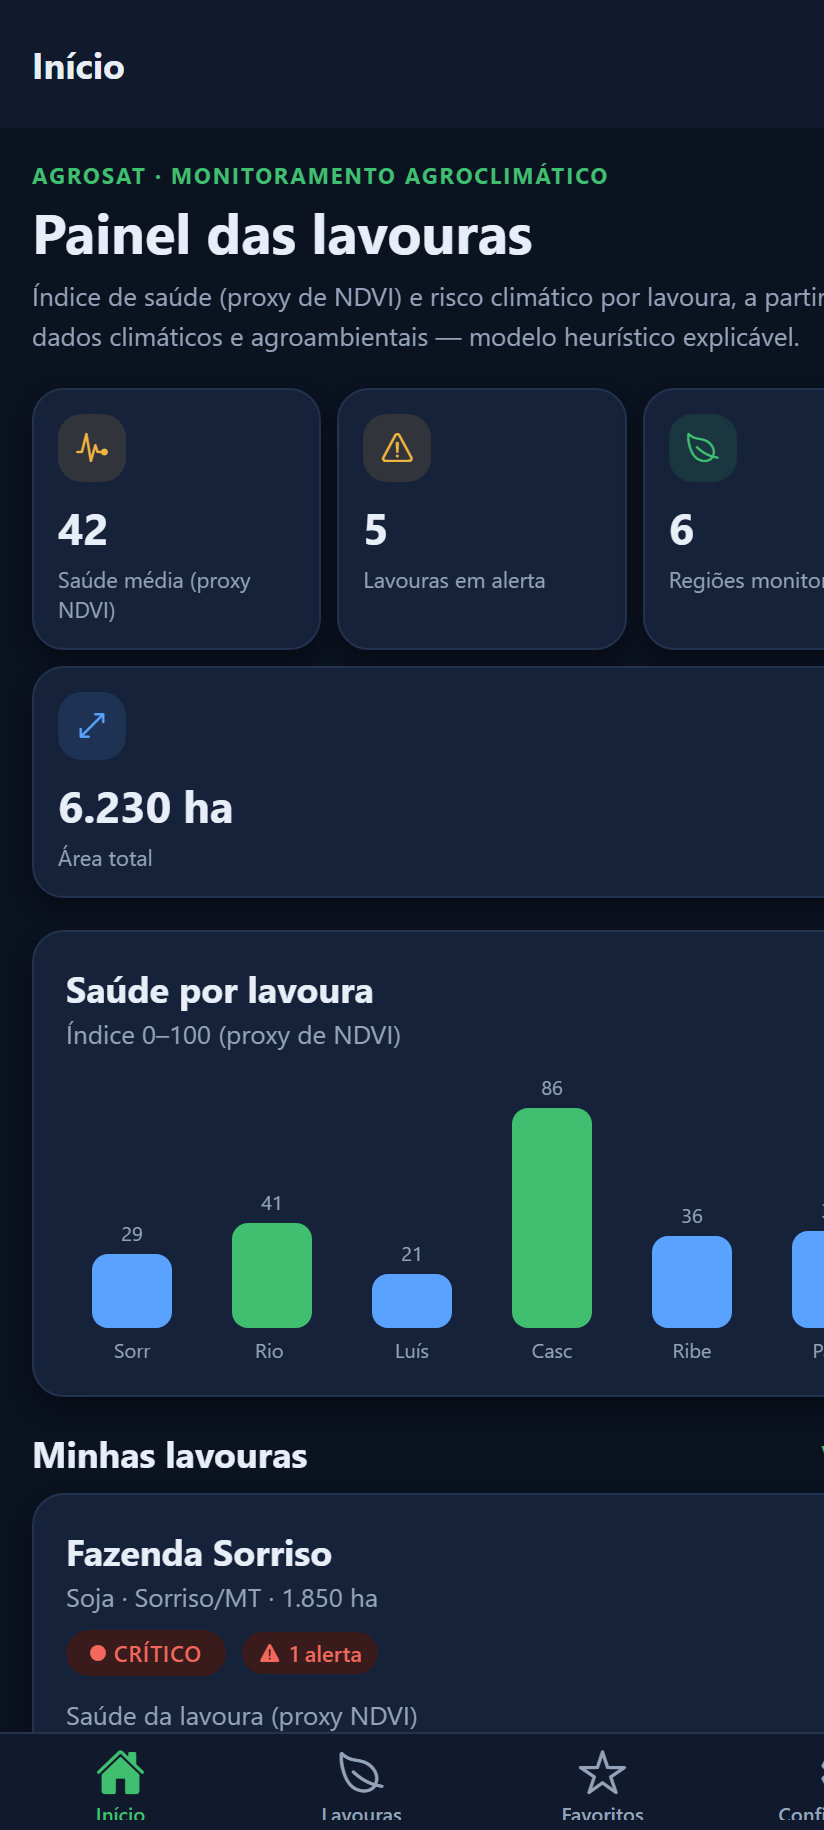
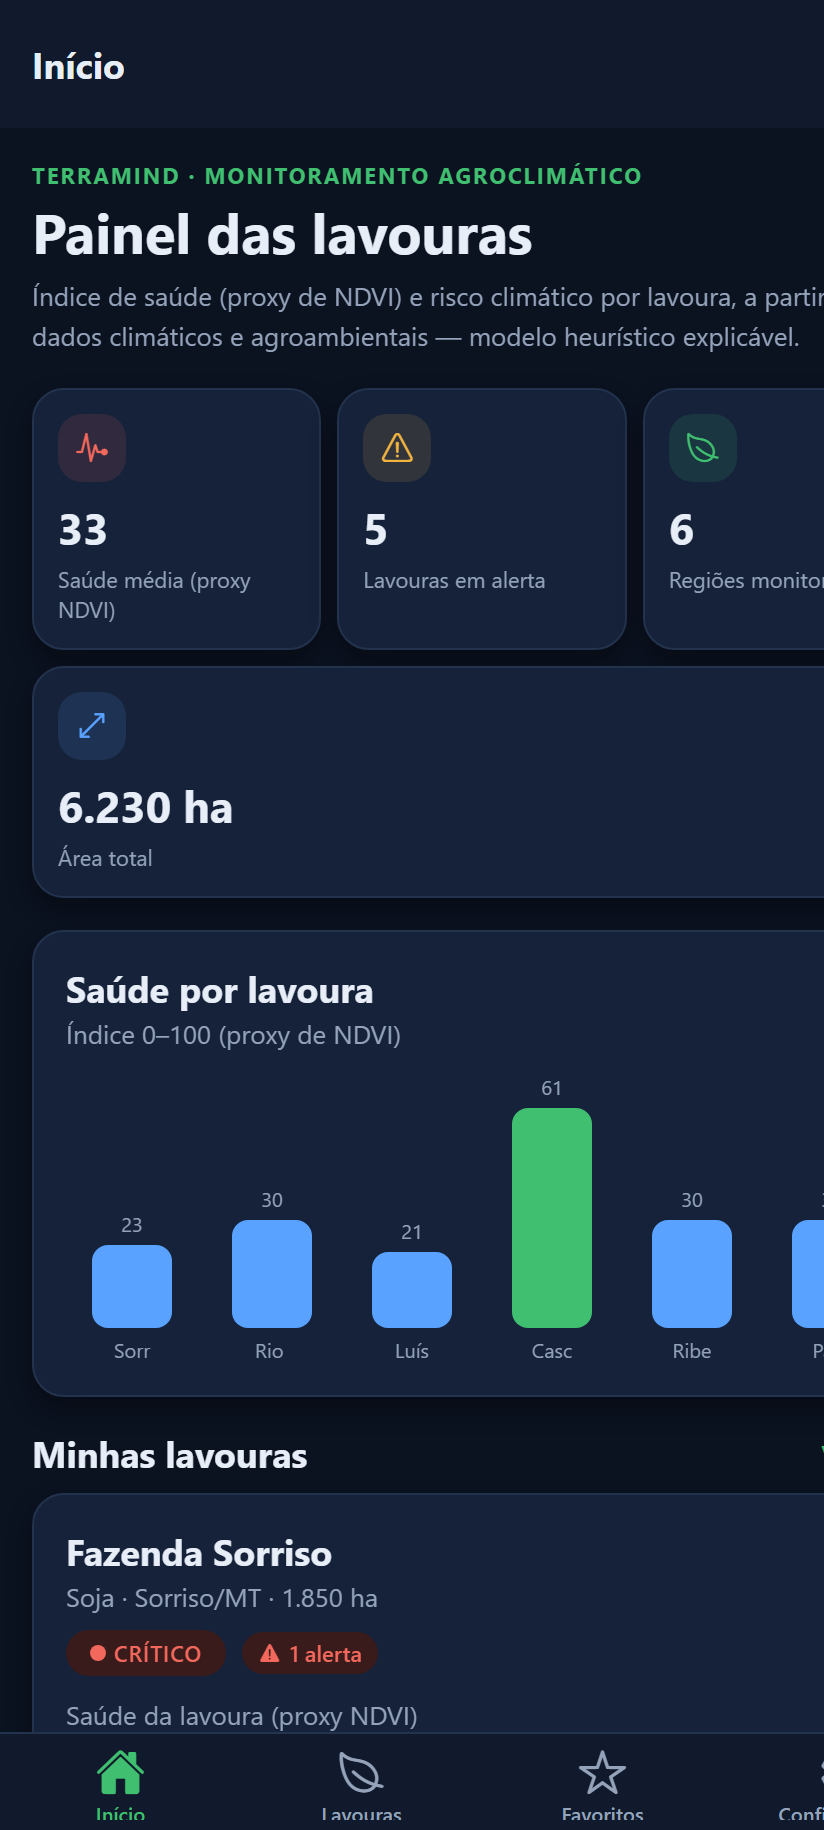
Renomeia projeto para TerraMind; remove expo-notifications; atualiza prints

diff --git a/src/screens/RegionDetailScreen.tsx b/src/screens/RegionDetailScreen.tsx
@@ -1,5 +1,5 @@
 import { Ionicons } from '@expo/vector-icons';
-import React, { ComponentProps, useEffect, useLayoutEffect } from 'react';
+import React, { ComponentProps, useLayoutEffect } from 'react';
 import { StyleSheet, Text, TouchableOpacity, View } from 'react-native';
 import {
   AlertCard,
@@ -19,7 +19,6 @@ import {
 import { useTheme } from '../contexts/ThemeContext';
 import { useFavorites, useRegionMonitor, useRegions } from '../hooks';
 import { RootStackScreenProps } from '../navigation/types';
-import { notifyCriticalRegion } from '../services/notificationService';
 import { estimateYield } from '../services/yieldEstimateService';
 import { fontSize, fontWeight, spacing } from '../theme';
 import { formatNumber, relativeFromNow, weekdayShort } from '../utils/format';
@@ -51,12 +50,6 @@ export function RegionDetailScreen({ route, navigation }: RootStackScreenProps<'
         : undefined,
     });
   }, [navigation, region, favorite, toggleFavorite, theme]);
-
-  useEffect(() => {
-    if (region && data?.health.status === 'critical') {
-      void notifyCriticalRegion(region.id, region.name);
-    }
-  }, [region, data]);
 
   if (!region) {
     return (

diff --git a/src/screens/SettingsScreen.tsx b/src/screens/SettingsScreen.tsx
@@ -69,9 +69,9 @@ export function SettingsScreen() {
       </Card>
 
       <Card style={styles.card}>
-        <SectionHeader title="Sobre o AgroSat" />
+        <SectionHeader title="Sobre o TerraMind" />
         <Text style={[styles.paragraph, { color: theme.colors.textMuted }]}>
-          O AgroSat é um MVP mobile de apoio à decisão agrícola: usa dados climáticos e agroambientais para calcular um
+          O TerraMind é um MVP mobile de apoio à decisão agrícola: usa dados climáticos e agroambientais para calcular um
           índice de saúde da lavoura por um modelo heurístico explicável (proxy de NDVI, sem processar imagens de
           satélite nesta versão) e antecipar riscos como estresse hídrico, geada e calor. Alinhado aos ODS 2, 13 e 9.
         </Text>
@@ -120,7 +120,7 @@ export function SettingsScreen() {
         ))}
       </Card>
 
-      <Text style={[styles.version, { color: theme.colors.textMuted }]}>AgroSat · v1.0.0 · Expo SDK 55</Text>
+      <Text style={[styles.version, { color: theme.colors.textMuted }]}>TerraMind · v1.0.0 · Expo SDK 55</Text>
     </ScreenContainer>
   );
 }

diff --git a/src/screens/HomeScreen.tsx b/src/screens/HomeScreen.tsx
@@ -66,7 +66,7 @@ export function HomeScreen({ navigation }: TabScreenProps<'Home'>) {
   return (
     <ScreenContainer scroll refreshing={loading} onRefresh={refetch}>
       <View>
-        <Text style={[styles.kicker, { color: theme.colors.primary }]}>AGROSAT · MONITORAMENTO AGROCLIMÁTICO</Text>
+        <Text style={[styles.kicker, { color: theme.colors.primary }]}>TERRAMIND · MONITORAMENTO AGROCLIMÁTICO</Text>
         <Text style={[styles.title, { color: theme.colors.text }]}>Painel das lavouras</Text>
         <Text style={[styles.subtitle, { color: theme.colors.textMuted }]}>
           Índice de saúde (proxy de NDVI) e risco climático por lavoura, a partir de dados climáticos e agroambientais — modelo heurístico explicável.

diff --git a/src/storage/index.ts b/src/storage/index.ts
@@ -1,10 +1,10 @@
 import AsyncStorage from '@react-native-async-storage/async-storage';
 
 export const StorageKeys = {
-  themeMode: '@agrosat/theme-mode',
-  favorites: '@agrosat/favorites',
-  customRegions: '@agrosat/custom-regions',
-  settings: '@agrosat/settings',
+  themeMode: '@terramind/theme-mode',
+  favorites: '@terramind/favorites',
+  customRegions: '@terramind/custom-regions',
+  settings: '@terramind/settings',
 } as const;
 
 export async function getItem<T>(key: string, fallback: T): Promise<T> {

diff --git a/docs/pitch.md b/docs/pitch.md
@@ -1,4 +1,4 @@
-# 🎤 Pitch — AgroSat
+# 🎤 Pitch — TerraMind
 
 > Roteiro de 3 a 5 minutos + perguntas difíceis com respostas honestas.
 > **Regra de ouro:** não prometer IA real, NDVI real ou processamento de satélite. Vender o que existe (apoio à decisão agroclimática explicável) e tratar o resto como roadmap.
@@ -11,28 +11,28 @@
 > "No campo, estresse hídrico, geada e seca normalmente só são percebidos quando o dano já aconteceu. Falta uma ferramenta simples que transforme dado ambiental em decisão preventiva."
 
 **[0:30–1:00] Solução**
-> "O AgroSat é um app mobile que pega **dados climáticos e agroambientais abertos** e os transforma em um **índice de saúde da lavoura (0–100)**, em **alertas** e em uma **estimativa de safra**. É uma ferramenta de **apoio à decisão**, não só um leitor de dados."
+> "O TerraMind é um app mobile que pega **dados climáticos e agroambientais abertos** e os transforma em um **índice de saúde da lavoura (0–100)**, em **alertas** e em uma **estimativa de safra**. É uma ferramenta de **apoio à decisão**, não só um leitor de dados."
 
 **[1:00–1:30] Relação com a indústria espacial**
 > "Usamos dados de **modelos meteorológicos que assimilam observação de satélite** (via Open-Meteo) e o conceito de **sensoriamento remoto / NDVI** como inspiração. Somos honestos: nesta versão é um **proxy agroclimático**, e a evolução é integrar NDVI real do Sentinel-2."
 
 **[1:30–2:00] Tecnologias**
-> "React Native + Expo SDK 55 + TypeScript; React Navigation; Context API + hooks; AsyncStorage; Axios com camada de serviços (batch + retry); expo-location e expo-notifications. APIs abertas Open-Meteo e NASA. Arquitetura em camadas."
+> "React Native + Expo SDK 55 + TypeScript; React Navigation; Context API + hooks; AsyncStorage; Axios com camada de serviços (batch + retry); expo-location (GPS); deep-linking de rotas. APIs abertas Open-Meteo e NASA. Arquitetura em camadas."
 
 **[2:00–3:00] Demonstração ao vivo**
-> Dashboard (indicadores + gráfico de saúde) → Lavouras (busca/filtro/ordenação) → Adicionar lavoura com **"Usar minha localização" (GPS)** → Detalhe (índice de saúde + **estimativa de safra** + clima + previsão + alertas) → **notificação local** numa lavoura crítica → Dark mode → Favoritos.
+> Dashboard (indicadores + gráfico de saúde) → Lavouras (busca/filtro/ordenação) → Adicionar lavoura com **"Usar minha localização" (GPS)** → Detalhe (índice de saúde + **estimativa de safra** + clima + previsão + **alertas climáticos**) → Dark mode → Favoritos.
 
 **[3:00–3:40] Modelo heurístico de saúde**
 > "O índice é um **modelo heurístico transparente**: umidade do solo + balanço hídrico (chuva − evapotranspiração) + estresse térmico → score 0–100 e um **proxy de NDVI** 0–1. Totalmente **explicável** — mostramos por que está 'crítico'."
 
 **[3:40–4:10] Limitações honestas**
-> "Sendo transparentes: **não é IA** (é regra), **não é NDVI medido** (é proxy climático), **não processamos imagens de satélite** ainda e as notificações são **locais** (sem backend). Optamos por um MVP **funcional e honesto**."
+> "Sendo transparentes: **não é IA** (é regra), **não é NDVI medido** (é proxy climático) e **não processamos imagens de satélite** ainda. Os alertas aparecem dentro do app; push remoto e backend ficam no roadmap. Optamos por um MVP **funcional e honesto**."
 
 **[4:10–4:40] Próximos passos**
 > "Roadmap: NDVI real com Sentinel-2; mapa de calor por talhão; backend com PostGIS; push remoto; estimativa de safra com séries históricas; validação com dados de campo."
 
 **[4:40–5:00] Fechamento**
-> "AgroSat: dado espacial e climático aberto virando **decisão no campo**, alinhado aos ODS 2, 13 e 9. Honesto no que entrega, claro no que evolui."
+> "TerraMind: dado espacial e climático aberto virando **decisão no campo**, alinhado aos ODS 2, 13 e 9. Honesto no que entrega, claro no que evolui."
 
 ---
 
@@ -59,14 +59,14 @@ Hoje é validação por **plausibilidade agronômica** (déficit hídrico e calo
 **7. Por que não tem backend?**
 Escopo de MVP mobile e prazo. Tudo roda no cliente com APIs abertas, o que garante rodar **sem cadastro** na correção. A camada de serviços já está isolada para, no futuro, apontar para um backend (Spring Boot/PostGIS, como sugerido).
 
-**8. Como funcionam as notificações?**
-São **notificações locais** (expo-notifications), disparadas no aparelho quando uma lavoura entra em estado crítico, com anti-spam por sessão. **Não** é push remoto (isso exigiria backend e build standalone) — está no roadmap.
+**8. Como funcionam os alertas?**
+Os **alertas climáticos** (geada, calor, chuva intensa, estresse hídrico) são calculados a partir da previsão e exibidos **dentro do app** — no contador "Lavouras em alerta" do Dashboard e na seção de alertas do Detalhe. **Notificações push** exigiriam backend/dev build e ficam no roadmap.
 
 **9. O app funciona offline?**
 Favoritos e lavouras adicionadas persistem em AsyncStorage e abrem offline. Os dados climáticos são online; cache offline do clima é uma melhoria mapeada.
 
 **10. Roda em Android, iOS e Web?**
-Mesma base Expo. Testamos **Web** e **Android (Expo Go)**. iOS roda pela mesma base; [preencher: testado/não testado em hardware].
+Mesma base Expo. Validamos em **Web** e **Android**. No iPhone testado, o **Expo Go** estava em versão incompatível com o SDK do projeto, então o iOS não foi validado em hardware — roda pela mesma base (ou via development build).
 
 **11. Como isso ajuda o agricultor na prática?**
 Concentra numa tela o que hoje está espalhado: saúde relativa de cada talhão, risco climático dos próximos dias e uma estimativa de perda. Ajuda a **priorizar** onde agir (irrigar, antecipar colheita) antes do dano.

diff --git a/README.md b/README.md
@@ -1,6 +1,6 @@
-# 🛰 AgroSat — Monitoramento Agroclimático de Lavouras
+# 🛰 TerraMind — Monitoramento Agroclimático de Lavouras
 
-**AgroSat** é um **MVP mobile de apoio à decisão agrícola** (React Native + Expo SDK 55 + TypeScript). Ele usa **dados climáticos e agroambientais** para calcular um **índice explicável de saúde da lavoura (0–100)**, antecipar **riscos climáticos** e estimar a **safra**. O índice é **inspirado no conceito de NDVI**, mas nesta versão funciona como um **proxy agroclimático** — **sem processamento real de imagens de satélite**.
+**TerraMind** é um **MVP mobile de apoio à decisão agrícola** (React Native + Expo SDK 55 + TypeScript). Ele usa **dados climáticos e agroambientais** para calcular um **índice explicável de saúde da lavoura (0–100)**, antecipar **riscos climáticos** e estimar a **safra**. O índice é **inspirado no conceito de NDVI**, mas nesta versão funciona como um **proxy agroclimático** — **sem processamento real de imagens de satélite**.
 
 ![Expo SDK](https://img.shields.io/badge/Expo-SDK%2055-000?logo=expo) ![React Native](https://img.shields.io/badge/React%20Native-0.83-61dafb?logo=react) ![TypeScript](https://img.shields.io/badge/TypeScript-5.9-3178c6?logo=typescript)
 
@@ -12,7 +12,7 @@ No campo, **estresse hídrico, geada e seca** muitas vezes só são percebidos q
 
 ## 💡 Solução
 
-O AgroSat reúne em um app: o **índice de saúde** de cada lavoura, o **risco climático** dos próximos dias, **alertas** e uma **estimativa de safra** — ajudando o produtor a **priorizar onde agir** antes do prejuízo.
+O TerraMind reúne em um app: o **índice de saúde** de cada lavoura, o **risco climático** dos próximos dias, **alertas** e uma **estimativa de safra** — ajudando o produtor a **priorizar onde agir** antes do prejuízo.
 
 ## 🛰 Relação com a indústria espacial (honesta)
 
@@ -38,8 +38,7 @@ O AgroSat reúne em um app: o **índice de saúde** de cada lavoura, o **risco c
 | 🏠 **Dashboard** | Indicadores (saúde média, lavouras em alerta, área total), **gráfico de saúde por lavoura** e imagem astronômica da NASA. |
 | 🌿 **Lavouras** | Lista com **busca**, **filtro por status** e **ordenação**. Pull-to-refresh. |
 | ➕ **Adicionar lavoura** | Por **cidade (geocoding)** ou pelo **GPS do dispositivo** ("Usar minha localização"). Salva localmente. |
-| 🔎 **Detalhe da lavoura** | Índice de saúde (proxy de NDVI), **estimativa de safra**, estresse hídrico, clima atual, previsão de 7 dias e **alertas climáticos**. |
-| 🔔 **Notificações locais** | Aviso no aparelho quando uma lavoura entra em **estado crítico**. |
+| 🔎 **Detalhe da lavoura** | Índice de saúde (proxy de NDVI), **estimativa de safra**, estresse hídrico, clima atual, previsão de 7 dias e **alertas climáticos** (no app). |
 | ⭐ **Favoritos** | Lavouras marcadas, **persistidas** no dispositivo. |
 | ⚙ **Configurações** | Tema **claro/escuro/sistema**, fontes de dados e equipe. |
 
@@ -74,7 +73,6 @@ Resultado: score **0–100** + valor estilo **NDVI 0–1**, classificado em **Sa
 - **AsyncStorage** (persistência local)
 - **Axios** (Service Layer com interceptors, batch e tratamento de erro)
 - **expo-location** (geolocalização do dispositivo)
-- **expo-notifications** (notificações locais)
 - **@expo/vector-icons** (Ionicons)
 - APIs: **Open-Meteo** e **NASA APOD**
 
@@ -87,7 +85,7 @@ src/
  ├── components/   # Componentes + ui/ (design system)
  ├── screens/      # Home, Regions, RegionDetail, AddRegion, Favorites, Settings, ApodDetail
  ├── navigation/   # Navegadores + tipos de rota
- ├── services/     # API (Open-Meteo, NASA) + regras (saúde, safra, notificações)
+ ├── services/     # API (Open-Meteo, NASA) + regras (saúde, safra, alertas)
  ├── hooks/        # useMonitors, useRegionMonitor, useApod + hooks de contexto
  ├── contexts/     # Theme, Favorites, Regions
  ├── storage/      # Wrapper tipado do AsyncStorage
@@ -118,7 +116,7 @@ npm run android   # Android (Expo Go / emulador)
 npm run ios       # iOS (requer macOS)
 ```
 
-> Observação: `expo-location` usa a geolocalização do navegador na Web e o GPS no celular. As **notificações locais** funcionam em Android/iOS (no aparelho); na Web são desativadas com segurança.
+> Observação: `expo-location` usa a geolocalização do navegador na Web e o GPS no celular. Os **alertas climáticos** aparecem dentro do app (Dashboard e Detalhe) e funcionam em todas as plataformas.
 
 ---
 
@@ -127,7 +125,7 @@ npm run ios       # iOS (requer macOS)
 - O índice de saúde é um **modelo heurístico explicável**, **não é IA/Machine Learning** treinado.
 - O "NDVI" é um **proxy agroclimático**, **não** NDVI espectral real.
 - O app **não processa imagens Sentinel-2/Landsat** nesta versão.
-- As notificações são **locais** (no aparelho), **não** push remoto com backend.
+- Os **alertas** são exibidos **dentro do app** (Dashboard e Detalhe); **notificações push** ficam no roadmap.
 - A estimativa de safra é **relativa e aproximada** (valores de referência), não previsão financeira garantida.
 - Backend e processamento geoespacial real **não fazem parte** do MVP.
 
@@ -144,7 +142,7 @@ npm run ios       # iOS (requer macOS)
 
 ## 🖼 Prints
 
-> Substitua pelos prints reais (arquivos em `docs/screenshots/`).
+> Capturas do app em execução (arquivos em `docs/screenshots/`).
 
 ![Dashboard](./docs/screenshots/dashboard.png)
 ![Detalhe da Lavoura](./docs/screenshots/detalhe-lavoura.png)

diff --git a/docs/checklist-entrega.md b/docs/checklist-entrega.md
@@ -1,7 +1,7 @@
-# ✅ Checklist de entrega — AgroSat
+# ✅ Checklist de entrega — TerraMind
 
 ## Repositório / GitHub
-- [ ] Repositório GitHub criado (público) e isolado só do AgroSat
+- [ ] Repositório GitHub criado (público) e isolado só do TerraMind
 - [ ] `git push` feito na branch principal
 - [ ] **`node_modules` NÃO está no repositório** (conferir no GitHub)
 - [ ] Clonado em pasta limpa: `npm install && npm start` sobe sem erro
@@ -29,7 +29,7 @@
 - [ ] Adicionar lavoura por cidade (geocoding)
 - [ ] Adicionar lavoura por **GPS** ("Usar minha localização")
 - [ ] Detalhe: índice de saúde, **estimativa de safra**, clima, previsão, alertas
-- [ ] **Notificação local** ao abrir lavoura crítica (em device)
+- [ ] **Alertas climáticos** no Dashboard (contador "em alerta") e no Detalhe
 - [ ] Favoritos (persistência)
 - [ ] Configurações (tema claro/escuro/sistema)
 - [ ] Persistência local (favoritos, lavouras, tema)
